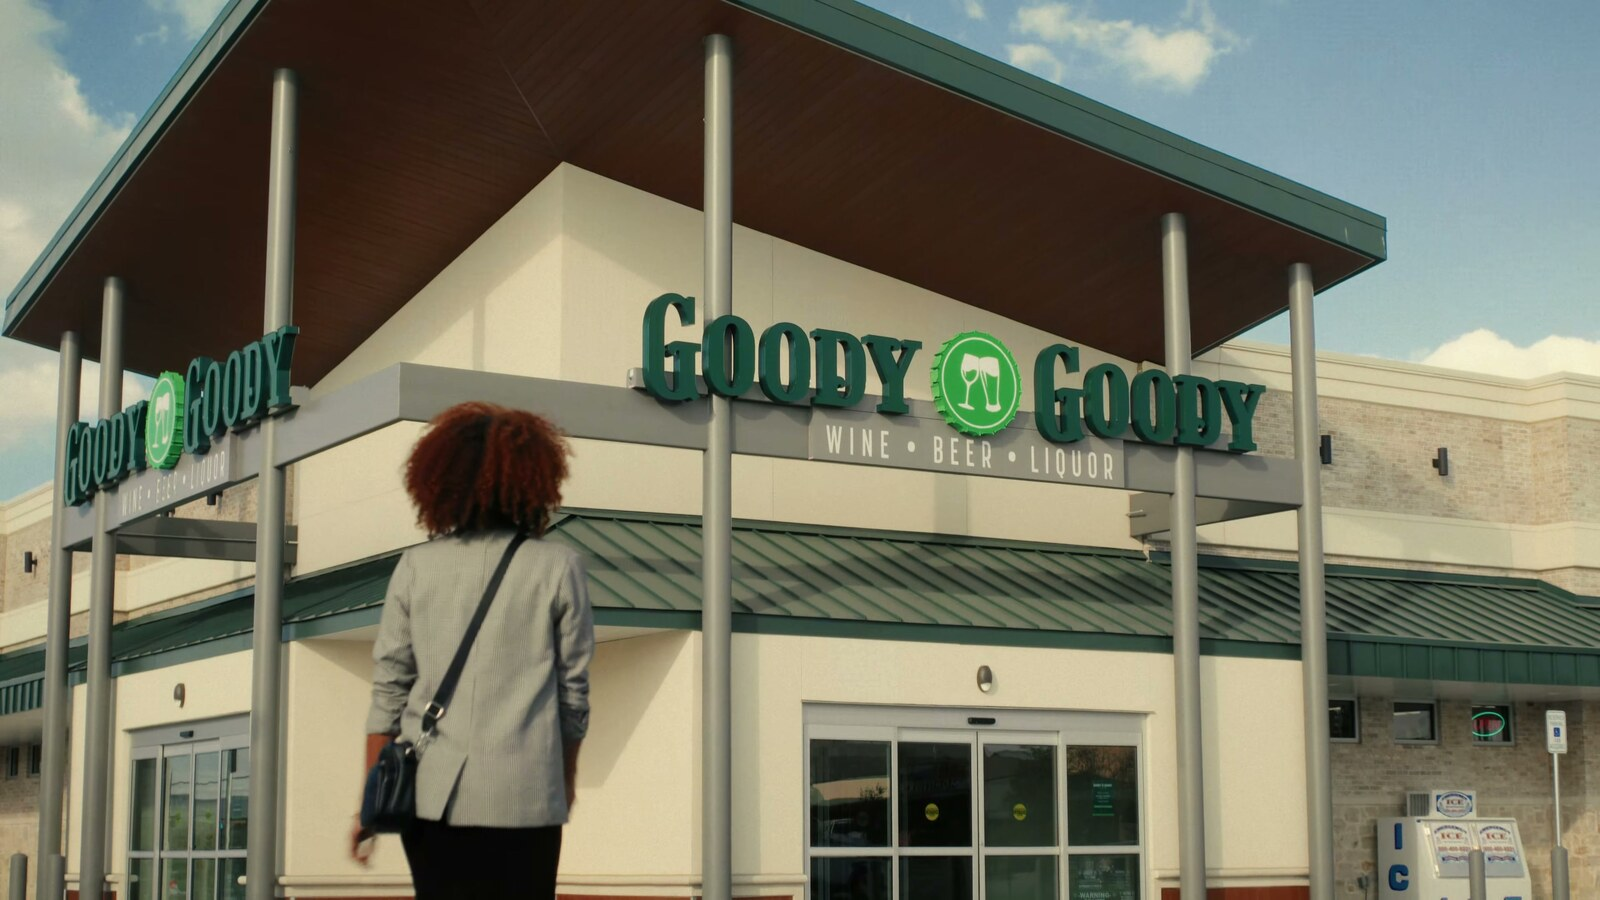
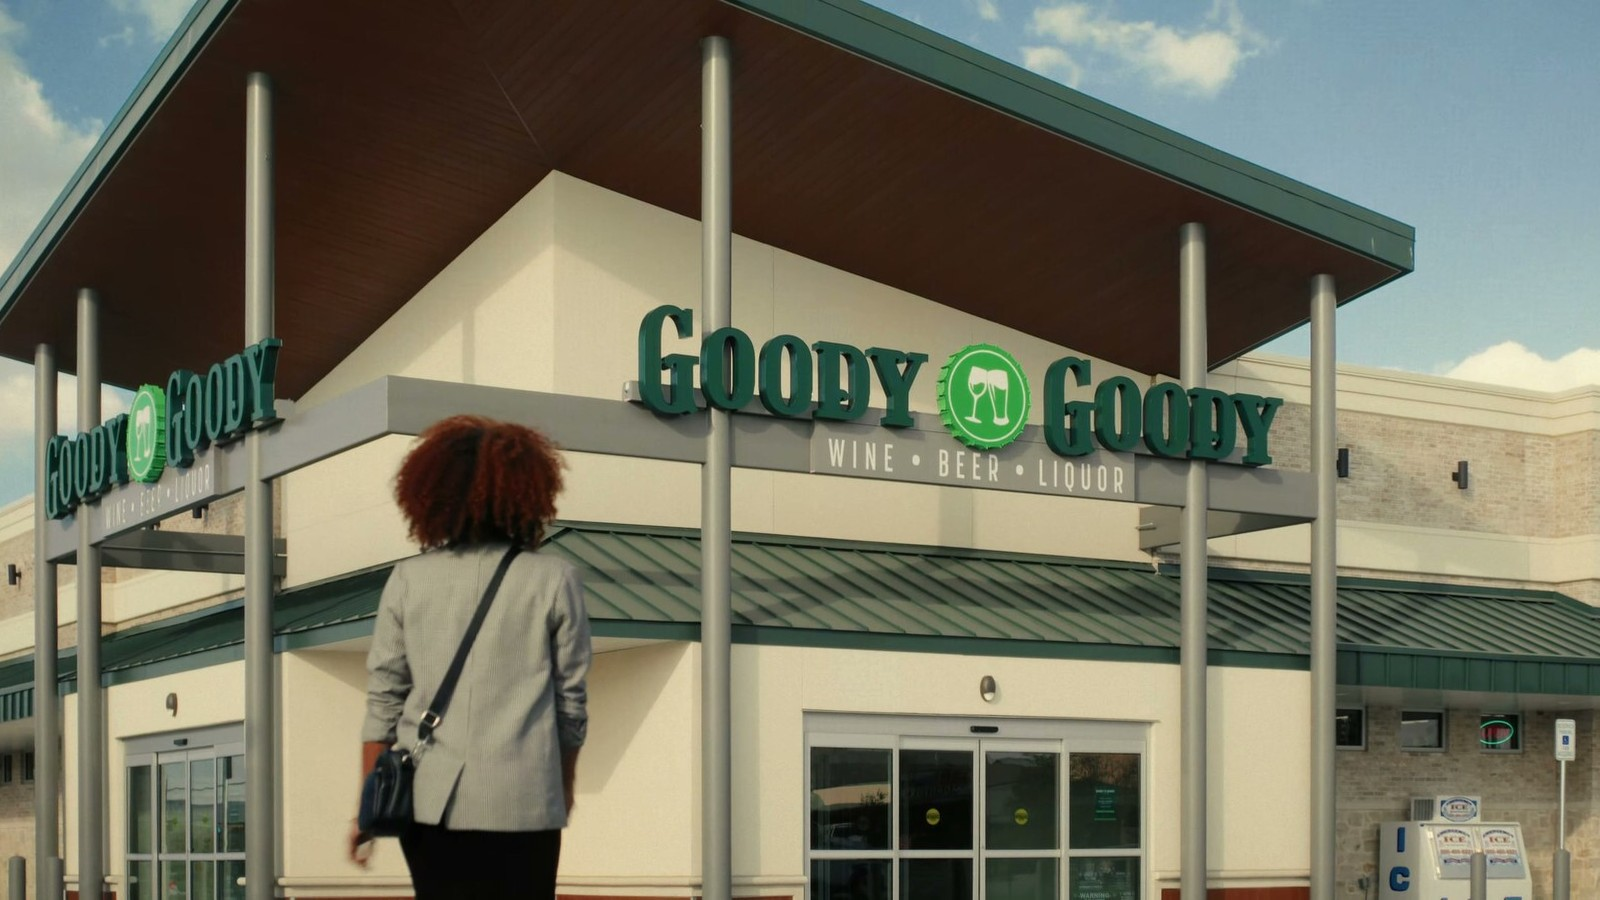
Goody Goody: make the storefront's poles plumb
The storefront still was shot from below with the camera tilted up, so
the five canopy poles fan outward towards the bottom of the frame and
read as leaning. Length-weighted mean lean over the frame's long
near-vertical edges: 1.628 degrees, and every pole agreed on it (left
edges around -2.5, right edges around +2.0), which is keystone, not one
crooked pole.

scripts/deskew_verticals.py finds where those edges would meet if
extended (the zenith vanishing point, here 753, -14675) and applies the
projective transform that sends it to infinity — the transform that by
definition makes them parallel. Anchoring the warp on the bottom row
keeps that row's scale and keeps the trapezoid inside the picture, so
the output is full-bleed 16:9 with nothing to re-crop; the only thing
given up is ~43px of sky in each top corner. Measured again afterwards:
0.313 degrees, with the poles themselves at 0.00.

The script refuses to write if the frame already measures plumb (so
re-running it is a no-op, not a second correction) or if the correction
didn't improve the measurement.

Both copies the site uses are updated: the lightbox still
img/comm_goody/frame3.jpg and the homepage tile crop
img/shuffle/comm_goody/3.jpg, the latter regenerated with
build_thumb_shuffle.py's own parameters (1152 wide, q82, progressive)
so it matches what the next full build will produce from the corrected
source. No other copy of this frame exists in the repo.

diff --git a/scripts/deskew_verticals.py b/scripts/deskew_verticals.py
@@ -1,0 +1,206 @@
+#!/usr/bin/env python3
+"""Make the verticals in a still plumb by removing the camera's tilt keystone.
+
+Written for img/comm_goody/frame3.jpg — the Goody Goody storefront, shot from
+below with the camera tilted up, so the five canopy poles fan outwards towards
+the bottom of the frame and read as leaning. Nothing about it is specific to
+that still, so it takes a path.
+
+WHAT IT DOES, in one sentence: find where the frame's near-vertical lines
+would meet if extended (the zenith vanishing point), then apply the projective
+transform that sends that point to infinity, which is exactly the transform
+that makes those lines parallel.
+
+    1. Canny + probabilistic Hough, keeping only long segments within
+       VERTICAL_TOLERANCE degrees of vertical — architecture, not people.
+    2. Least-squares vanishing point over those segments in homogeneous
+       coordinates (each segment's line must pass through it), weighted by
+       segment length, re-fitted a few times with the worst quarter dropped
+       each pass so one mis-detected edge can't drag the answer.
+    3. Warp the trapezoid bounded by the two vanishing-point rails through the
+       BOTTOM corners onto the full frame. Anchoring at the bottom row means
+       that row keeps its scale and the trapezoid stays inside the picture, so
+       the output is full-bleed — no black wedges, no re-crop needed, and the
+       only thing given up is a sliver of the top-left and top-right corners
+       (sky, on this frame).
+
+IDEMPOTENT BY MEASUREMENT, not by a marker file: step 1 runs first and the
+warp is skipped entirely when the frame already measures plumb, so re-running
+this on its own output is a no-op rather than a second correction.
+
+Usage:
+    python3 scripts/deskew_verticals.py img/comm_goody/frame3.jpg \
+        --shuffle-out img/shuffle/comm_goody/3.jpg
+
+--shuffle-out regenerates the homepage tile derivative in the same pass.
+scripts/build_thumb_shuffle.py owns that file and would rebuild it from the
+corrected source anyway; writing it here just keeps the two copies of the
+picture from disagreeing until the next full build. The parameters below
+mirror that script's (width 1152, quality 82, optimize, progressive) so this
+produces what the build produces.
+"""
+
+import argparse
+import sys
+
+import cv2
+import numpy as np
+from PIL import Image
+
+# Only segments this close to vertical are architecture worth trusting. Wider
+# and the woman's shoulder line and bag strap start voting on the answer.
+VERTICAL_TOLERANCE = 12.0     # degrees
+MIN_SEGMENT_HEIGHT = 110      # px — long enough to have a reliable slope
+# Below this length-weighted mean lean the frame is already plumb and the warp
+# is skipped. Comfortably under the 1.6 degrees the Goody Goody frame measured
+# and comfortably over the residue a correction leaves behind (~0.3).
+PLUMB_ENOUGH = 0.6            # degrees
+
+# Homepage tile derivative — must match scripts/build_thumb_shuffle.py.
+SHUFFLE_WIDTH = 1152
+SHUFFLE_QUALITY = 82
+# Gallery still. 90 lands within ~10% of the file size these frames already
+# ship at while keeping the recompression off a JPEG source invisible.
+GALLERY_QUALITY = 90
+
+
+def vertical_segments(bgr):
+    """Long, near-vertical line segments as (x1, y1, x2, y2, angle, height)."""
+    gray = cv2.GaussianBlur(cv2.cvtColor(bgr, cv2.COLOR_BGR2GRAY), (3, 3), 0)
+    lines = cv2.HoughLinesP(cv2.Canny(gray, 25, 90), 1, np.pi / 1440,
+                            threshold=50, minLineLength=MIN_SEGMENT_HEIGHT,
+                            maxLineGap=20)
+    out = []
+    for x1, y1, x2, y2 in (lines[:, 0] if lines is not None else []):
+        if y1 > y2:
+            x1, y1, x2, y2 = x2, y2, x1, y1
+        height = float(y2 - y1)
+        if height < MIN_SEGMENT_HEIGHT:
+            continue
+        angle = float(np.degrees(np.arctan2(float(x2 - x1), height)))
+        if abs(angle) < VERTICAL_TOLERANCE:
+            out.append((float(x1), float(y1), float(x2), float(y2), angle, height))
+    return out
+
+
+def lean(segments):
+    """Length-weighted mean |angle from vertical|, in degrees."""
+    if not segments:
+        return 0.0
+    return float(np.average([abs(s[4]) for s in segments],
+                            weights=[s[5] for s in segments]))
+
+
+def _fit_vp(segments):
+    """Least-squares point that all the segments' lines pass through.
+
+    A line through two homogeneous points is their cross product, and a point
+    lies on it when their dot product is zero — so the vanishing point is the
+    null space of the stacked (length-weighted, normalised) line matrix.
+    """
+    rows = []
+    for x1, y1, x2, y2, _angle, height in segments:
+        line = np.cross([x1, y1, 1.0], [x2, y2, 1.0])
+        rows.append(line / np.linalg.norm(line[:2]) * height)
+    _u, _s, vt = np.linalg.svd(np.array(rows))
+    return vt[-1]
+
+
+def vanishing_point(segments, passes=6, keep_fraction=75):
+    """Robust zenith. Re-fit, dropping the worst-fitting quarter each pass."""
+    current = list(segments)
+    point = _fit_vp(current)
+    for _ in range(passes):
+        vp = np.array([point[0] / point[2], point[1] / point[2], 1.0])
+        residuals = np.array([
+            abs(np.cross([x1, y1, 1.0], [x2, y2, 1.0])
+                / np.linalg.norm(np.cross([x1, y1, 1.0], [x2, y2, 1.0])[:2]) @ vp)
+            for x1, y1, x2, y2, _a, _h in current
+        ])
+        keep = residuals < max(float(np.percentile(residuals, keep_fraction)), 6.0)
+        if keep.sum() < 8:
+            break
+        current = [s for s, k in zip(current, keep) if k]
+        point = _fit_vp(current)
+    return point[:2] / point[2], current
+
+
+def straighten(bgr, vp):
+    """Send `vp` to infinity, anchoring the bottom row so the frame stays full."""
+    h, w = bgr.shape[:2]
+    vx, vy = float(vp[0]), float(vp[1])
+    y_ref = float(h)
+
+    def rail(x_at_ref, y):
+        """Where the vanishing-point line through (x_at_ref, y_ref) sits at y."""
+        return vx + (x_at_ref - vx) * (y - vy) / (y_ref - vy)
+
+    src = np.float32([[rail(0, 0), 0], [rail(w, 0), 0], [w, h], [0, h]])
+    dst = np.float32([[0, 0], [w, 0], [w, h], [0, h]])
+    matrix = cv2.getPerspectiveTransform(src, dst)
+    return cv2.warpPerspective(bgr, matrix, (w, h), flags=cv2.INTER_LANCZOS4,
+                               borderMode=cv2.BORDER_REPLICATE), src
+
+
+def save_jpeg(bgr, path, quality, width=None, progressive=False):
+    im = Image.fromarray(cv2.cvtColor(bgr, cv2.COLOR_BGR2RGB))
+    if width and im.width > width:
+        im = im.resize((width, max(1, round(im.height * width / im.width))),
+                       Image.LANCZOS)
+    im.save(path, "JPEG", quality=quality, optimize=True,
+            progressive=progressive, subsampling=2)
+    return im.size
+
+
+def main():
+    ap = argparse.ArgumentParser(description=__doc__,
+                                 formatter_class=argparse.RawDescriptionHelpFormatter)
+    ap.add_argument("image", help="still to correct, rewritten in place")
+    ap.add_argument("--shuffle-out", help="also write the homepage tile crop here")
+    ap.add_argument("--dry-run", action="store_true", help="measure only")
+    args = ap.parse_args()
+
+    bgr = cv2.imread(args.image)
+    if bgr is None:
+        sys.exit(f"cannot read {args.image}")
+
+    segments = vertical_segments(bgr)
+    if len(segments) < 8:
+        sys.exit(f"only {len(segments)} usable vertical segments — "
+                 "not enough to trust a correction, leave this one alone")
+
+    before = lean(segments)
+    print(f"{args.image}: {len(segments)} vertical segments, "
+          f"mean lean {before:.3f}°")
+    if before < PLUMB_ENOUGH:
+        print(f"  already within {PLUMB_ENOUGH}° of plumb — nothing to do")
+        return
+
+    vp, inliers = vanishing_point(segments)
+    print(f"  vanishing point ({vp[0]:.1f}, {vp[1]:.1f}) from {len(inliers)} inliers")
+
+    fixed, src = straighten(bgr, vp)
+    after = lean(vertical_segments(fixed))
+    print(f"  mean lean {before:.3f}° -> {after:.3f}°")
+    print(f"  source quad top edge x = {src[0][0]:.1f} .. {src[1][0]:.1f} "
+          f"(bottom row unchanged)")
+
+    # Refuse to ship a regression. The measurement is the same one used to
+    # decide there was a problem, so this is a real check, not a formality.
+    if after >= before:
+        sys.exit("  correction did not improve the verticals — nothing written")
+
+    if args.dry_run:
+        print("  dry run — nothing written")
+        return
+
+    size = save_jpeg(fixed, args.image, GALLERY_QUALITY)
+    print(f"  wrote {args.image} {size[0]}x{size[1]}")
+    if args.shuffle_out:
+        size = save_jpeg(fixed, args.shuffle_out, SHUFFLE_QUALITY,
+                         width=SHUFFLE_WIDTH, progressive=True)
+        print(f"  wrote {args.shuffle_out} {size[0]}x{size[1]}")
+
+
+if __name__ == "__main__":
+    main()
